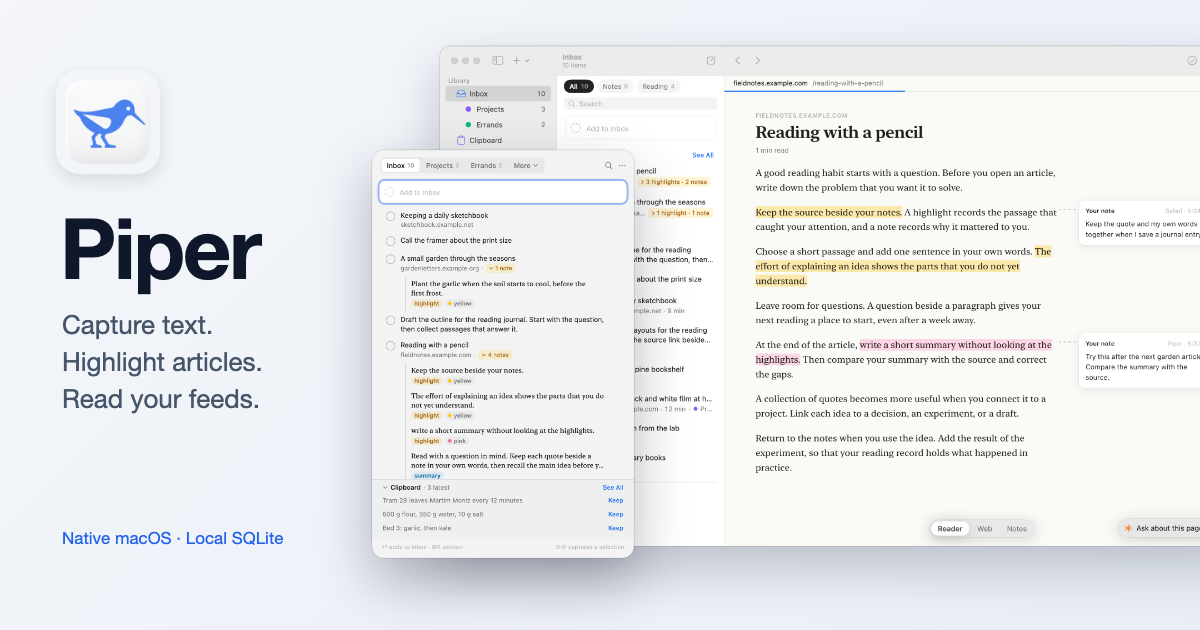
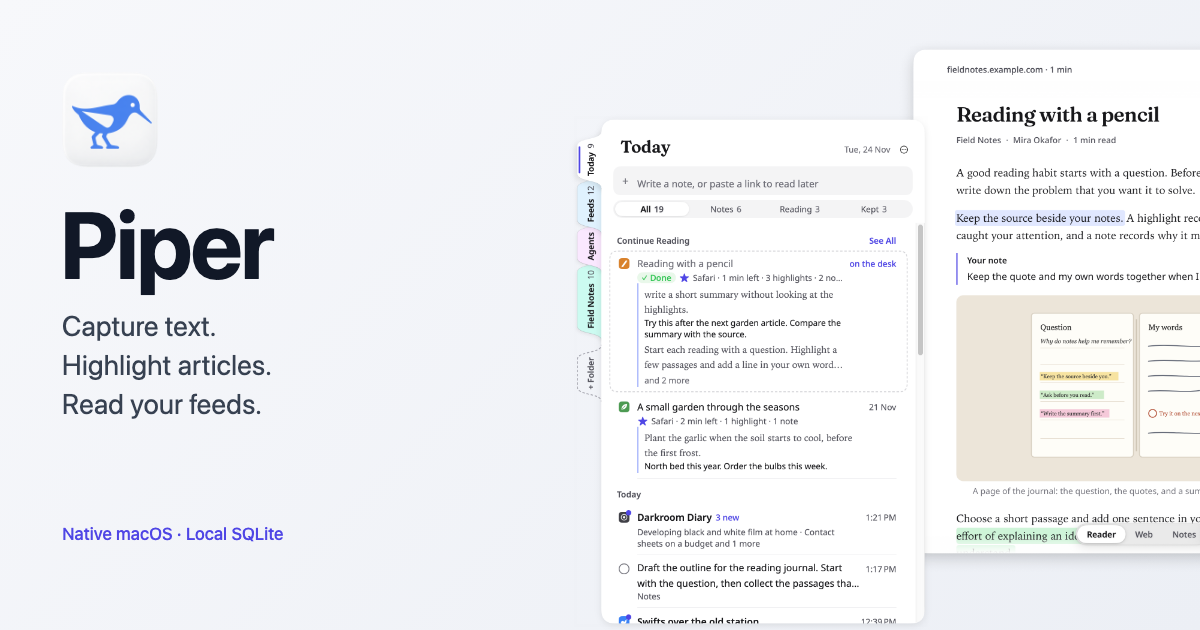
Retake the screenshots for the papers with fictional data
Retake the hero, Feeds, folder, reader, notes, and agent session images,
and render the social images again. The folder image is now
folder-file.png. A debug-only QA proxy lets fictional hosts load in the
Reader tab, and `open session` opens a stored session.

diff --git a/Sources/Piper/QAHooks.swift b/Sources/Piper/QAHooks.swift
@@ -1,4 +1,5 @@
 import AppKit
+import Network
 import WebKit
 
 /// Hooks that let a test drive Piper while another app stays in front.
@@ -40,13 +41,17 @@ enum QA {
 ///   Capture does.
 /// - `focus feed` or `focus <n>`: gives the focus to the feed paper or to
 ///   reader paper `n`, from 0.
-/// - `open note <text>`, `open article <title>`, `open file <path>`: opens an
-///   item whose text or title starts with the words.
+/// - `open note <text>`, `open article <title>`, `open file <path>`,
+///   `open session <title>`: opens an item whose text or title starts with the words.
 /// - `reader <script>`: runs JavaScript in the reader page of the paper with the focus.
 /// - `appearance light`, `appearance dark`, or `appearance system`: sets the appearance of Piper.
 /// - `shot <path>`: draws the feed paper window into a PNG file on the desk
 ///   color of the mock. It works while the screen is locked, when a capture
 ///   of the screen fails.
+///
+/// With `-PiperQAProxy host:port`, the web views of the default data store
+/// connect through that HTTP proxy, so a test can serve fictional hosts from a
+/// local server.
 @MainActor
 final class QAScripts: NSObject {
     static let name = Notification.Name("com.piper.qa.eval")
@@ -58,6 +63,14 @@ final class QAScripts: NSObject {
         self.model = model
         self.desk = desk
         super.init()
+        if let proxy = UserDefaults.standard.string(forKey: AppDefaults.Key.qaProxy) {
+            let parts = proxy.split(separator: ":").map(String.init)
+            if parts.count == 2, let port = NWEndpoint.Port(parts[1]) {
+                WKWebsiteDataStore.default().proxyConfigurations = [
+                    ProxyConfiguration(httpCONNECTProxy: .hostPort(host: NWEndpoint.Host(parts[0]), port: port))
+                ]
+            }
+        }
         // An inactive app holds distributed notifications unless the observer asks for each one at once.
         DistributedNotificationCenter.default().addObserver(self, selector: #selector(received(_:)), name: Self.name, object: nil, suspensionBehavior: .deliverImmediately)
         DistributedNotificationCenter.default().addObserver(self, selector: #selector(command(_:)), name: Self.command, object: nil, suspensionBehavior: .deliverImmediately)
@@ -160,6 +173,11 @@ final class QAScripts: NSObject {
             desk.open(.article(article.id))
         case "file":
             model.files.openFile(words)
+        case "session":
+            guard let session = model.agents.runner.sessions.first(where: { $0.title.hasPrefix(words) }) else {
+                return "error\nNo session starts with \(words)."
+            }
+            desk.open(.session(session.id))
         default:
             return "error\nUnknown kind \(parts[0])."
         }

diff --git a/Sources/Piper/App/AppDefaults.swift b/Sources/Piper/App/AppDefaults.swift
@@ -15,6 +15,8 @@ enum AppDefaults {
         static let qaMode = "PiperQA"
         /// The file where `QAScripts` writes the result of a script.
         static let qaResultPath = "PiperQAResult"
+        /// The `host:port` of an HTTP proxy for the web views of `QAScripts`, so fictional hosts load from a local server.
+        static let qaProxy = "PiperQAProxy"
 
         static let agentDisabledFolders = "agentDisabledFolders"
         static let agentLastFolder = "agentLastFolder"

diff --git a/README.md b/README.md
@@ -4,7 +4,7 @@ Piper is a native macOS application for capturing text. It saves selected text a
 
 Capture and browsing need no account, cloud service, telemetry, or network connection. Feeds connect only to the sites that you subscribe to, and to the home pages of the sites of your history that Sources checks. Notes stay in a local SQLite database. Wiki files stay on disk as they are. The web reader connects to the pages you open.
 
-![The Piper Inbox, and a fictional article with highlights and notes in the Reader tab](docs/images/hero.jpg)
+![The feed paper on Today with notes, links with reading progress, and a feed digest, beside a fictional article with highlights and a note in the Reader tab](docs/images/hero.jpg)
 
 The screenshots use fictional articles, notes, and conversations in an isolated local database.
 
@@ -65,17 +65,17 @@ The papers use Fraunces for titles, Noto Sans for the interface, and an indigo a
 
 The feed paper has a tab for Today, your agent sessions, and each folder. [Today](docs/guides/capture.md#today) lists your notes, your links to read later, the new posts of your feeds, and your clipboard texts in one list. Each row has Keep, Done, File, and Send. A row opens on a reader paper, to the right of the feed paper. [Sources](docs/guides/feeds.md) holds your RSS subscriptions, how each one reaches Today, and the sites of your browser history that have a feed.
 
-![The Feeds group with fictional sites and their icons, and an article in the Reader tab](docs/images/feeds.png)
+![The Sources list of the Feeds tab with fictional feeds and their site icons, beside an article in the Reader tab](docs/images/feeds.png)
 
-![The Piper main window with a reading journal open from a fictional Field Notes folder](docs/images/main-window.png)
+![The tab of a fictional Field Notes folder, beside a reading journal from that folder in the editor](docs/images/folder-file.png)
 
 ## Highlights And Notes
 
 The Reader tab shows the text of an article with its images, videos, code blocks, and tables. Highlights show in the text, and your notes show beside them. The Notes tab collects the summary, the highlights, and the notes of the article. Piper opens each site in the tab that you chose last for it.
 
-![Close-up of the Reader tab with a figure, colored highlights, and a note beside a fictional article](docs/images/reader-highlights.png)
+![Close-up of the Reader tab with colored highlights, a note under a highlight, and a figure of a fictional article](docs/images/reader-highlights.png)
 
-![Close-up of the Notes tab with a summary, highlighted quotes, and personal notes](docs/images/article-notes.png)
+![Close-up of the Notes tab with a summary, the highlighted quotes, and the notes on them](docs/images/article-notes.png)
 
 See [Highlight and ask in the Reader tab](docs/guides/browse.md#highlight-and-ask-in-the-reader-tab) for the controls.
 
@@ -85,7 +85,7 @@ Piper talks to Claude Code in a session card beside the open file or capture. Th
 
 See [Work with agents](docs/guides/claude.md) for setup, ACP agents, and permission controls.
 
-![A fictional Claude Code session about an article, with the link of the article attached as context](docs/images/claude-session.png)
+![The Agents tab beside a fictional Claude Code session about an article, with the link of the article as context of the first message](docs/images/claude-session.png)
 
 ## Documentation
 

diff --git a/.claude/skills/piper-qa/SKILL.md b/.claude/skills/piper-qa/SKILL.md
@@ -64,6 +64,7 @@ Do not do these checks with `press`, `--headed`, or the clipboard. List them for
 - A WebKit page, such as the Reader tab or the Web tab, can show blank in `qa.sh shot` while the page is loaded. To check the text, run `agent-desktop find --app PiperQA --role webarea`, then find a heading or a text inside it.
 - `agent-desktop select` needs a value argument. To select a row in a list, use `click` on the ref of the row.
 - To test feeds with no real data, serve fictional files with `python3 -I -m http.server` on `127.0.0.1`. Sources accepts a local address. Sites You Read Often drops private hosts, so give the fake history public hosts.
+- To show a fictional host such as `fieldnotes.example.com` in the Reader tab or the Web tab, start PiperQA with `-PiperQAProxy 127.0.0.1:<port>`. Serve a local proxy on that port that answers `CONNECT <host>:80` and serves the page for the `Host` header. Give each image an address on `127.0.0.1`, because the Reader page does not use the proxy.
 - PiperQA reads browser history from `$QA/home/Library`, because `CFFIXED_USER_HOME` changes the home folder. For Sites You Read Often, write a fake Chrome `History` database to `$QA/home/Library/Application Support/Google/Chrome/Default/History`, with the `urls` and `visits` tables.
 
 - On `main`, the editor is a native text view. The file changes on disk only after Command-S or Save.

diff --git a/docs/guides/browse.md b/docs/guides/browse.md
@@ -295,7 +295,7 @@ The row of the article in the list shows the reading time and the progress. Pipe
 
 ### Highlight And Ask In The Reader Tab
 
-![Close-up of article highlights with personal notes in the margin](../images/reader-highlights.png)
+![Close-up of the Reader tab with colored highlights, a note under a highlight, and a figure of a fictional article](../images/reader-highlights.png)
 
 Select text in the article to show the selection bar. The bar has Highlight and Note, then Ask, Explain, Define, and Capture.
 
@@ -349,7 +349,7 @@ The count of the Reading row includes all three groups. When you scroll to the e
 
 ### Use The Notes Tab
 
-![Close-up of the Notes tab with an article summary, highlighted quotes, and personal notes](../images/article-notes.png)
+![Close-up of the Notes tab with a summary, the highlighted quotes, and the notes on them](../images/article-notes.png)
 
 Select Notes in the tabs at the bottom of the paper. The Notes tab shows one page for the article:
 

diff --git a/docs/release/readiness.md b/docs/release/readiness.md
@@ -39,7 +39,6 @@ Acceptance: each window restores its own state, saved notes survive a restart, a
 - [ ] Run the paper, editing, and reading preference checks.
 - [ ] Decide whether the file paper needs find in the open file.
 - [ ] Test the paper keys, the hint strip, and the paper motion with real input. QA posted the key events to PiperQA in a locked session, so the menus, the mouse, a drag, and the animations are not checked.
-- [ ] Take new screenshots of the papers for the README and the guides. `main-window.png` and `feeds.png` show the old main window and the old feed tabs.
 - [ ] Decide whether Piper needs an action that creates a new folder.
 - [ ] Import a real NetNewsWire `Subscriptions.opml`, and make sure that each feed refreshes.
 - [ ] Scan Sites You Read Often in the built app with Safari history. While Piper has no Full Disk Access, make sure that Settings > Feeds shows Open Privacy Settings.

diff --git a/docs/guides/feeds.md b/docs/guides/feeds.md
@@ -94,7 +94,7 @@ If Piper cannot read the NetNewsWire file, give Piper Full Disk Access. You can 
 
 Select an article row in Today to read it on a reader paper. Select a digest row, then press Return, to show the articles of that feed. The reader paper is the same reader as a link capture. The Reader tab shows the article as clean text, and the Web tab shows the original page.
 
-![A fictional feed with its articles, and an article in the Reader tab](../images/feeds.png)
+![The Sources list of the Feeds tab with fictional feeds and their site icons, beside an article in the Reader tab](../images/feeds.png)
 
 When you open an article on a paper or in the browser, Piper marks it as read. You cannot undo this mark. An article stays in Today for 7 days. Piper removes a read article 30 days after it arrives, unless you kept it.
 
